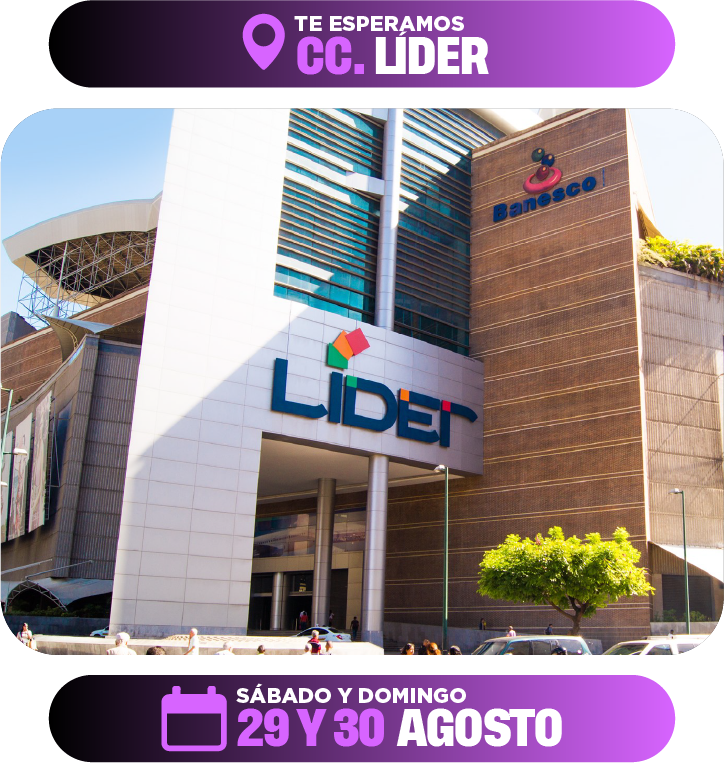
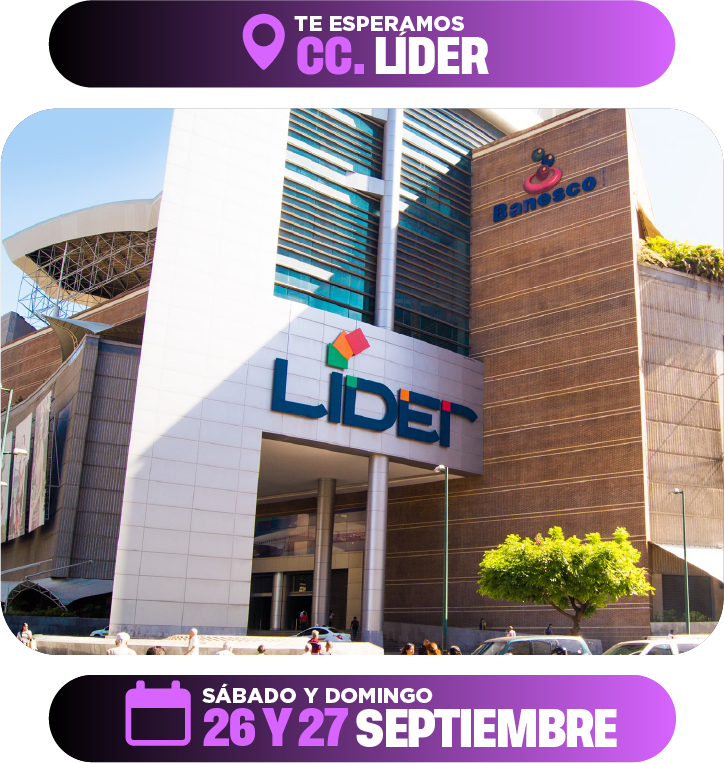
feat: add announcement modal and update event target date

Changed region(s): [[0.1519, 0.8742, 0.8508, 0.9948], [0.8812, 0.9948, 0.9116, 1.0]]

diff --git a/src/components/ComunicadoModal.css b/src/components/ComunicadoModal.css
@@ -1,0 +1,158 @@
+/* Screen reader only utility class for accessibility */
+.sr-only {
+  position: absolute;
+  width: 1px;
+  height: 1px;
+  padding: 0;
+  margin: -1px;
+  overflow: hidden;
+  clip: rect(0, 0, 0, 0);
+  border: 0;
+}
+
+/* Glassmorphic overlay with fade transition */
+.comunicado-overlay {
+  position: fixed;
+  inset: 0;
+  background: rgba(0, 0, 0, 0.0);
+  backdrop-filter: blur(0px);
+  -webkit-backdrop-filter: blur(0px);
+  display: flex;
+  align-items: center;
+  justify-content: center;
+  padding: 20px;
+  z-index: 9999;
+  transition: background 0.3s ease, backdrop-filter 0.3s ease, -webkit-backdrop-filter 0.3s ease;
+  cursor: pointer;
+}
+
+.comunicado-overlay.active {
+  background: rgba(0, 0, 0, 0.75);
+  backdrop-filter: blur(8px);
+  -webkit-backdrop-filter: blur(8px);
+}
+
+/* Modal container with scale & slide entrance */
+.comunicado-container {
+  background: rgba(25, 25, 30, 0.85);
+  border: 1px solid rgba(255, 255, 255, 0.1);
+  box-shadow: 0 24px 48px rgba(0, 0, 0, 0.6), 
+              0 0 0 1px rgba(255, 255, 255, 0.05) inset;
+  border-radius: 20px;
+  width: 100%;
+  max-width: 520px;
+  display: flex;
+  flex-direction: column;
+  align-items: center;
+  position: relative;
+  overflow: hidden;
+  cursor: default;
+  
+  /* Transition state */
+  opacity: 0;
+  transform: scale(0.9) translateY(20px);
+  transition: opacity 0.3s cubic-bezier(0.34, 1.56, 0.64, 1), 
+              transform 0.3s cubic-bezier(0.34, 1.56, 0.64, 1);
+}
+
+.comunicado-container.active {
+  opacity: 1;
+  transform: scale(1) translateY(0);
+}
+
+/* Close button on the top right */
+.comunicado-close-top {
+  position: absolute;
+  top: 15px;
+  right: 15px;
+  width: 32px;
+  height: 32px;
+  border-radius: 50%;
+  background: rgba(255, 255, 255, 0.1);
+  border: 1px solid rgba(255, 255, 255, 0.05);
+  color: #ffffff;
+  font-size: 20px;
+  line-height: 1;
+  display: flex;
+  align-items: center;
+  justify-content: center;
+  cursor: pointer;
+  z-index: 10;
+  transition: background 0.2s ease, transform 0.2s ease, border-color 0.2s ease;
+}
+
+.comunicado-close-top:hover {
+  background: rgba(255, 255, 255, 0.25);
+  border-color: rgba(255, 255, 255, 0.2);
+  transform: rotate(90deg);
+}
+
+/* Content and image styles */
+.comunicado-content {
+  width: 100%;
+  padding: 10px;
+  box-sizing: border-box;
+  display: flex;
+  justify-content: center;
+  align-items: center;
+  max-height: 70vh;
+}
+
+.comunicado-image {
+  width: 100%;
+  height: auto;
+  max-height: 65vh;
+  object-fit: contain;
+  border-radius: 12px;
+  box-shadow: 0 4px 12px rgba(0, 0, 0, 0.2);
+}
+
+/* Bottom CTA/Close button */
+.comunicado-close-btn {
+  width: calc(100% - 40px);
+  margin: 15px 20px 20px 20px;
+  padding: 12px 24px;
+  border-radius: 30px;
+  background: #ffffff;
+  border: 1px solid rgba(255, 255, 255, 0.2);
+  color: #000000;
+  font-family: inherit;
+  font-size: 15px;
+  font-weight: 700;
+  letter-spacing: 1px;
+  text-transform: uppercase;
+  cursor: pointer;
+  transition: transform 0.2s ease, box-shadow 0.2s ease, background-color 0.2s ease;
+  box-shadow: 0 4px 12px rgba(0, 0, 0, 0.15);
+}
+
+.comunicado-close-btn:hover {
+  transform: translateY(-2px);
+  background-color: #f2f2f2;
+  box-shadow: 0 8px 16px rgba(0, 0, 0, 0.25);
+}
+
+.comunicado-close-btn:active {
+  transform: translateY(0);
+}
+
+/* Responsive adjustments */
+@media (max-width: 480px) {
+  .comunicado-container {
+    max-width: 92%;
+    border-radius: 16px;
+  }
+  
+  .comunicado-content {
+    max-height: 60vh;
+  }
+
+  .comunicado-image {
+    max-height: 55vh;
+  }
+  
+  .comunicado-close-btn {
+    padding: 10px 20px;
+    font-size: 14px;
+  }
+}

diff --git a/src/components/ComunicadoModal.jsx b/src/components/ComunicadoModal.jsx
@@ -1,0 +1,62 @@
+import React, { useEffect, useState } from 'react';
+import './ComunicadoModal.css';
+import comunicadoImg from '../assets/Elementos graficos/COMUNICADO.png';
+
+export default function ComunicadoModal({ onClose }) {
+  const [isRendered, setIsRendered] = useState(false);
+
+  useEffect(() => {
+    // Trigger transition on mount
+    const timer = setTimeout(() => setIsRendered(true), 50);
+    return () => clearTimeout(timer);
+  }, []);
+
+  const handleCloseTransition = () => {
+    setIsRendered(false);
+    setTimeout(() => {
+      onClose();
+    }, 300); // match transition duration
+  };
+
+  return (
+    <div
+      className={`comunicado-overlay ${isRendered ? 'active' : ''}`}
+      onClick={handleCloseTransition}
+      role="dialog"
+      aria-modal="true"
+      aria-labelledby="comunicado-title"
+    >
+      <div
+        className={`comunicado-container ${isRendered ? 'active' : ''}`}
+        onClick={(e) => e.stopPropagation()}
+      >
+        <button
+          type="button"
+          className="comunicado-close-top"
+          onClick={handleCloseTransition}
+          aria-label="Cerrar comunicado"
+        >
+          &times;
+        </button>
+
+        <h2 id="comunicado-title" className="sr-only">Comunicado Importante</h2>
+
+        <div className="comunicado-content">
+          <img
+            src={comunicadoImg}
+            alt="Comunicado Oficial ECOM 2026"
+            className="comunicado-image"
+          />
+        </div>
+
+        <button
+          type="button"
+          className="comunicado-close-btn"
+          onClick={handleCloseTransition}
+        >
+          Cerrar
+        </button>
+      </div>
+    </div>
+  );
+}

diff --git a/src/main.jsx b/src/main.jsx
@@ -1,4 +1,4 @@
-import { StrictMode, useEffect } from 'react'
+import { StrictMode, useEffect, useState } from 'react'
 import { createRoot } from 'react-dom/client'
 import { BrowserRouter, Routes, Route, useLocation } from 'react-router-dom'
 import './index.css'
@@ -8,6 +8,7 @@ import Entradas from './pages/Entradas.jsx'
 import Links from './pages/Links.jsx'
 import Patrocinios from './pages/Patrocinios.jsx'
 import Tickets from './pages/Tickets.jsx'
+import ComunicadoModal from './components/ComunicadoModal.jsx'
 
 // Fires a Meta Pixel PageView on every SPA route change
 function PixelPageView() {
@@ -20,10 +21,31 @@ function PixelPageView() {
   return null
 }
 
+function GlobalModalManager() {
+  const [showModal, setShowModal] = useState(false)
+
+  useEffect(() => {
+    const hasSeen = localStorage.getItem('hasSeenComunicado')
+    if (!hasSeen) {
+      setShowModal(true)
+    }
+  }, [])
+
+  if (!showModal) return null
+
+  return (
+    <ComunicadoModal onClose={() => {
+      localStorage.setItem('hasSeenComunicado', 'true')
+      setShowModal(false)
+    }} />
+  )
+}
+
 createRoot(document.getElementById('root')).render(
   <StrictMode>
     <BrowserRouter>
       <PixelPageView />
+      <GlobalModalManager />
       <Routes>
         <Route path="/" element={<Links />} />
         <Route path="/stands" element={<App />} />

diff --git a/src/pages/Tickets.jsx b/src/pages/Tickets.jsx
@@ -7,7 +7,7 @@ import imgFlyer from '../assets/Elementos graficos/flyer.jpg';
 import './Tickets.css';
 
 function CountdownTimer() {
-  const TARGET_DATE = new Date('2026-08-28T23:59:59');
+  const TARGET_DATE = new Date('2026-09-25T23:59:59');
 
   const calcTimeLeft = () => {
     const diff = TARGET_DATE - new Date();

diff --git a/src/pages/Entradas.jsx b/src/pages/Entradas.jsx
@@ -18,7 +18,7 @@ import Navbar from '../components/Navbar';
 import './Entradas.css';
 
 function CountdownTimer() {
-  const TARGET_DATE = new Date('2026-08-28T23:59:59');
+  const TARGET_DATE = new Date('2026-09-25T23:59:59');
 
   const calcTimeLeft = () => {
     const diff = TARGET_DATE - new Date();
